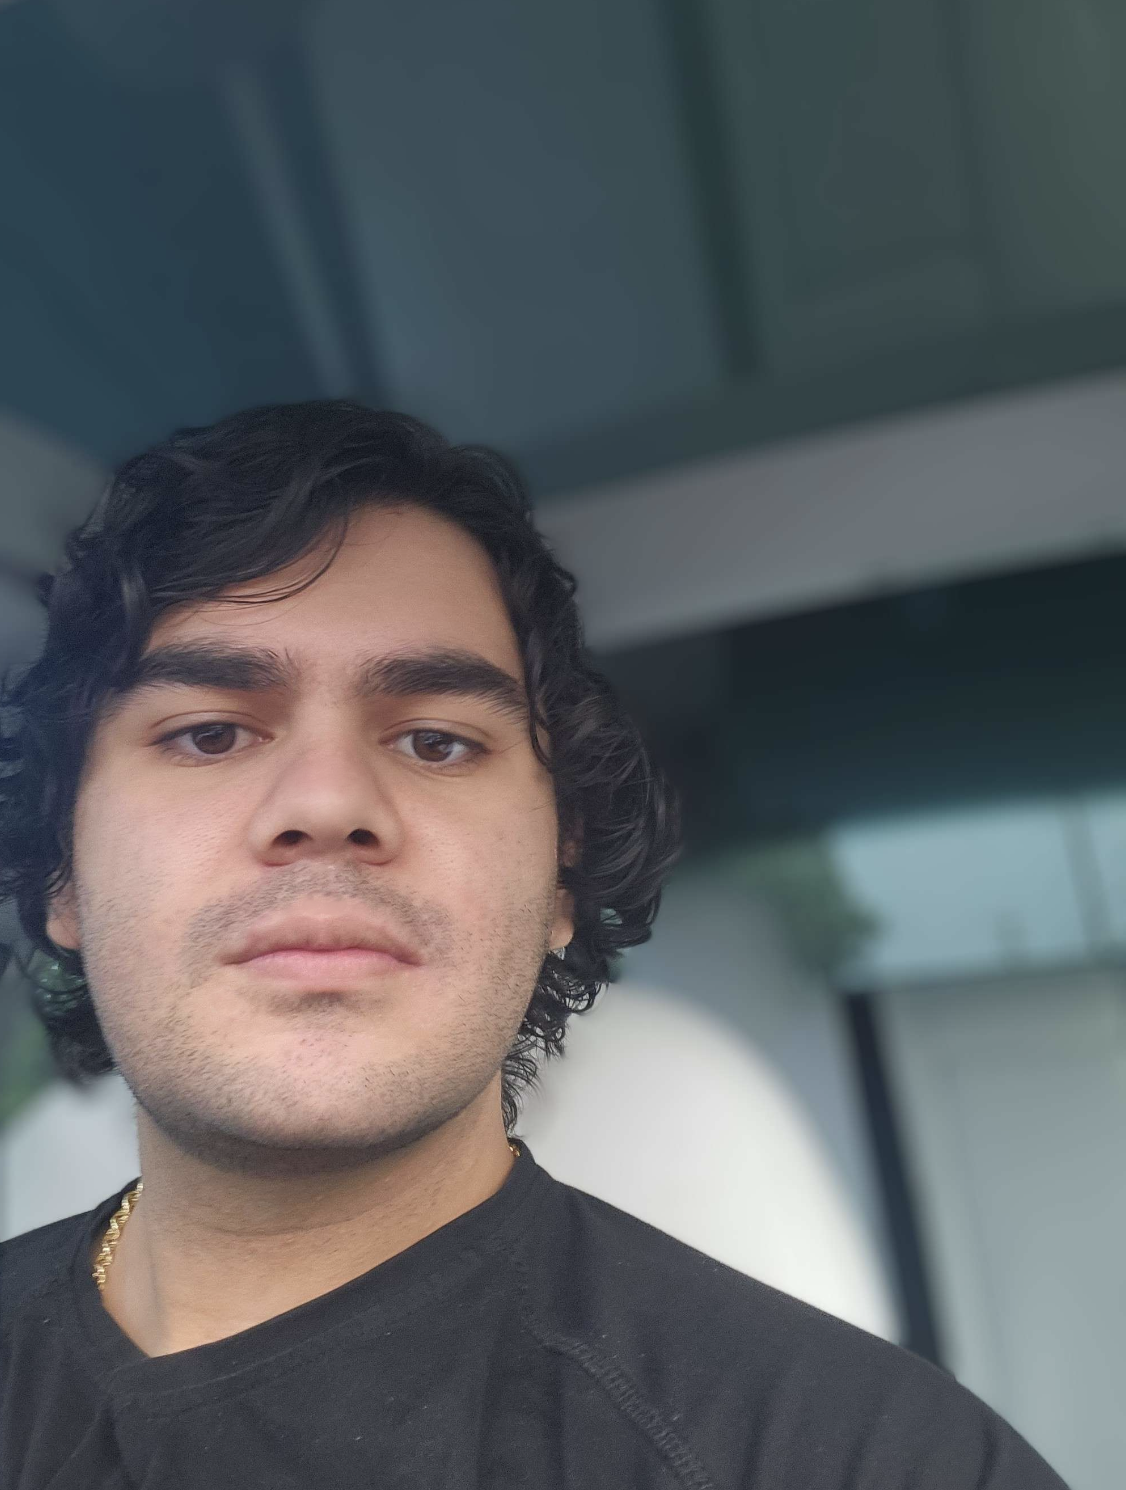
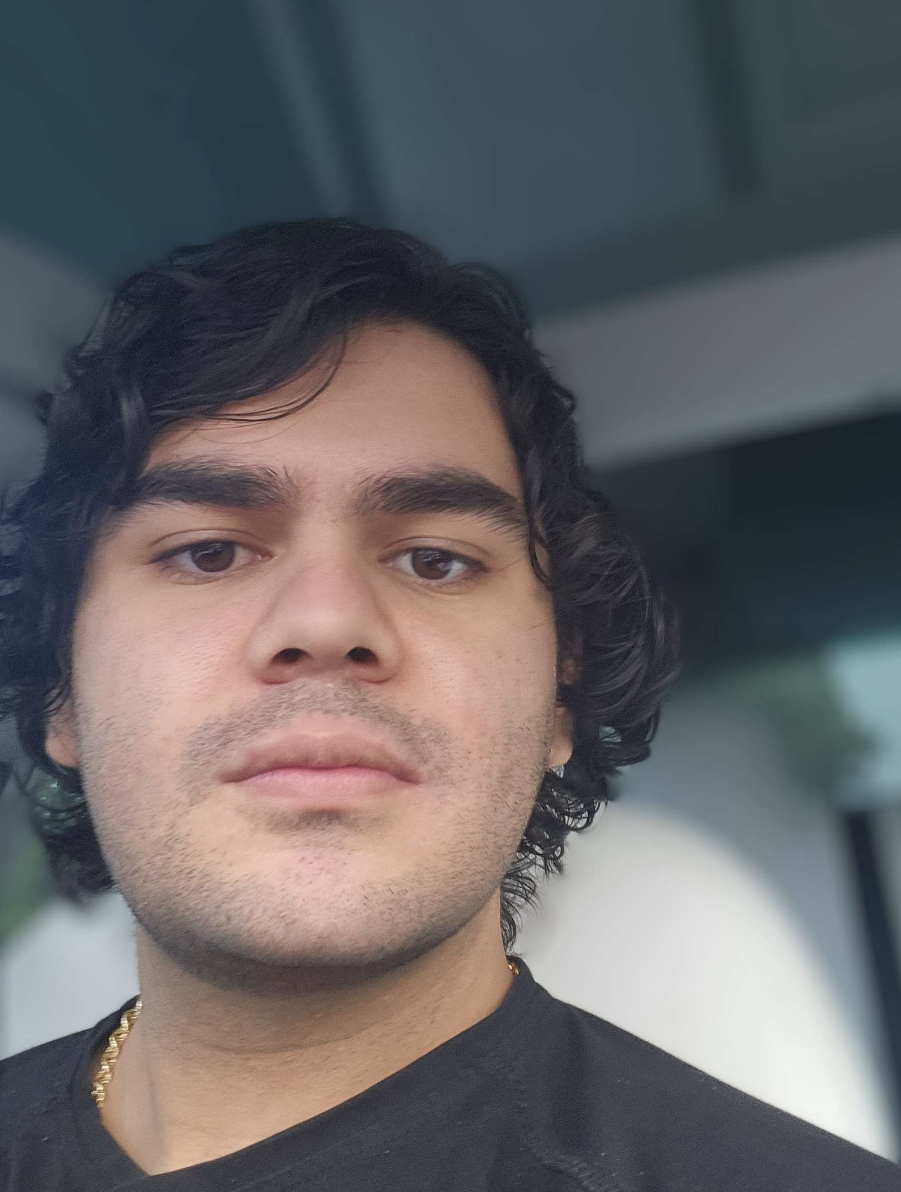
new2

diff --git a/index.html b/index.html
@@ -17,6 +17,8 @@ GUI HW1: Creating My First Web Page using HTML and CSS for styling
 <h1> My Name is Nika Ashtarzadeh </h1>
 <br>
 
+<img src="Images/myImage1.png">
+
 <div id ='About me'> 
  <p> I am a senior at The University of
     Massachusetts Lowell, majoring in Computer Science.

diff --git a/css/styles.css b/css/styles.css
@@ -7,13 +7,17 @@ body {
   }
 
   p {
-    color: red;
+    color: black;
   }
   
   .links {
     background-color: rgb(193, 91, 193);
     color: white;
     border: 2px solid black;
-    margin: 20px;
+    margin: 40px;
     padding: 20px;
+  }
+
+  img {
+    width: 100%;
   }
